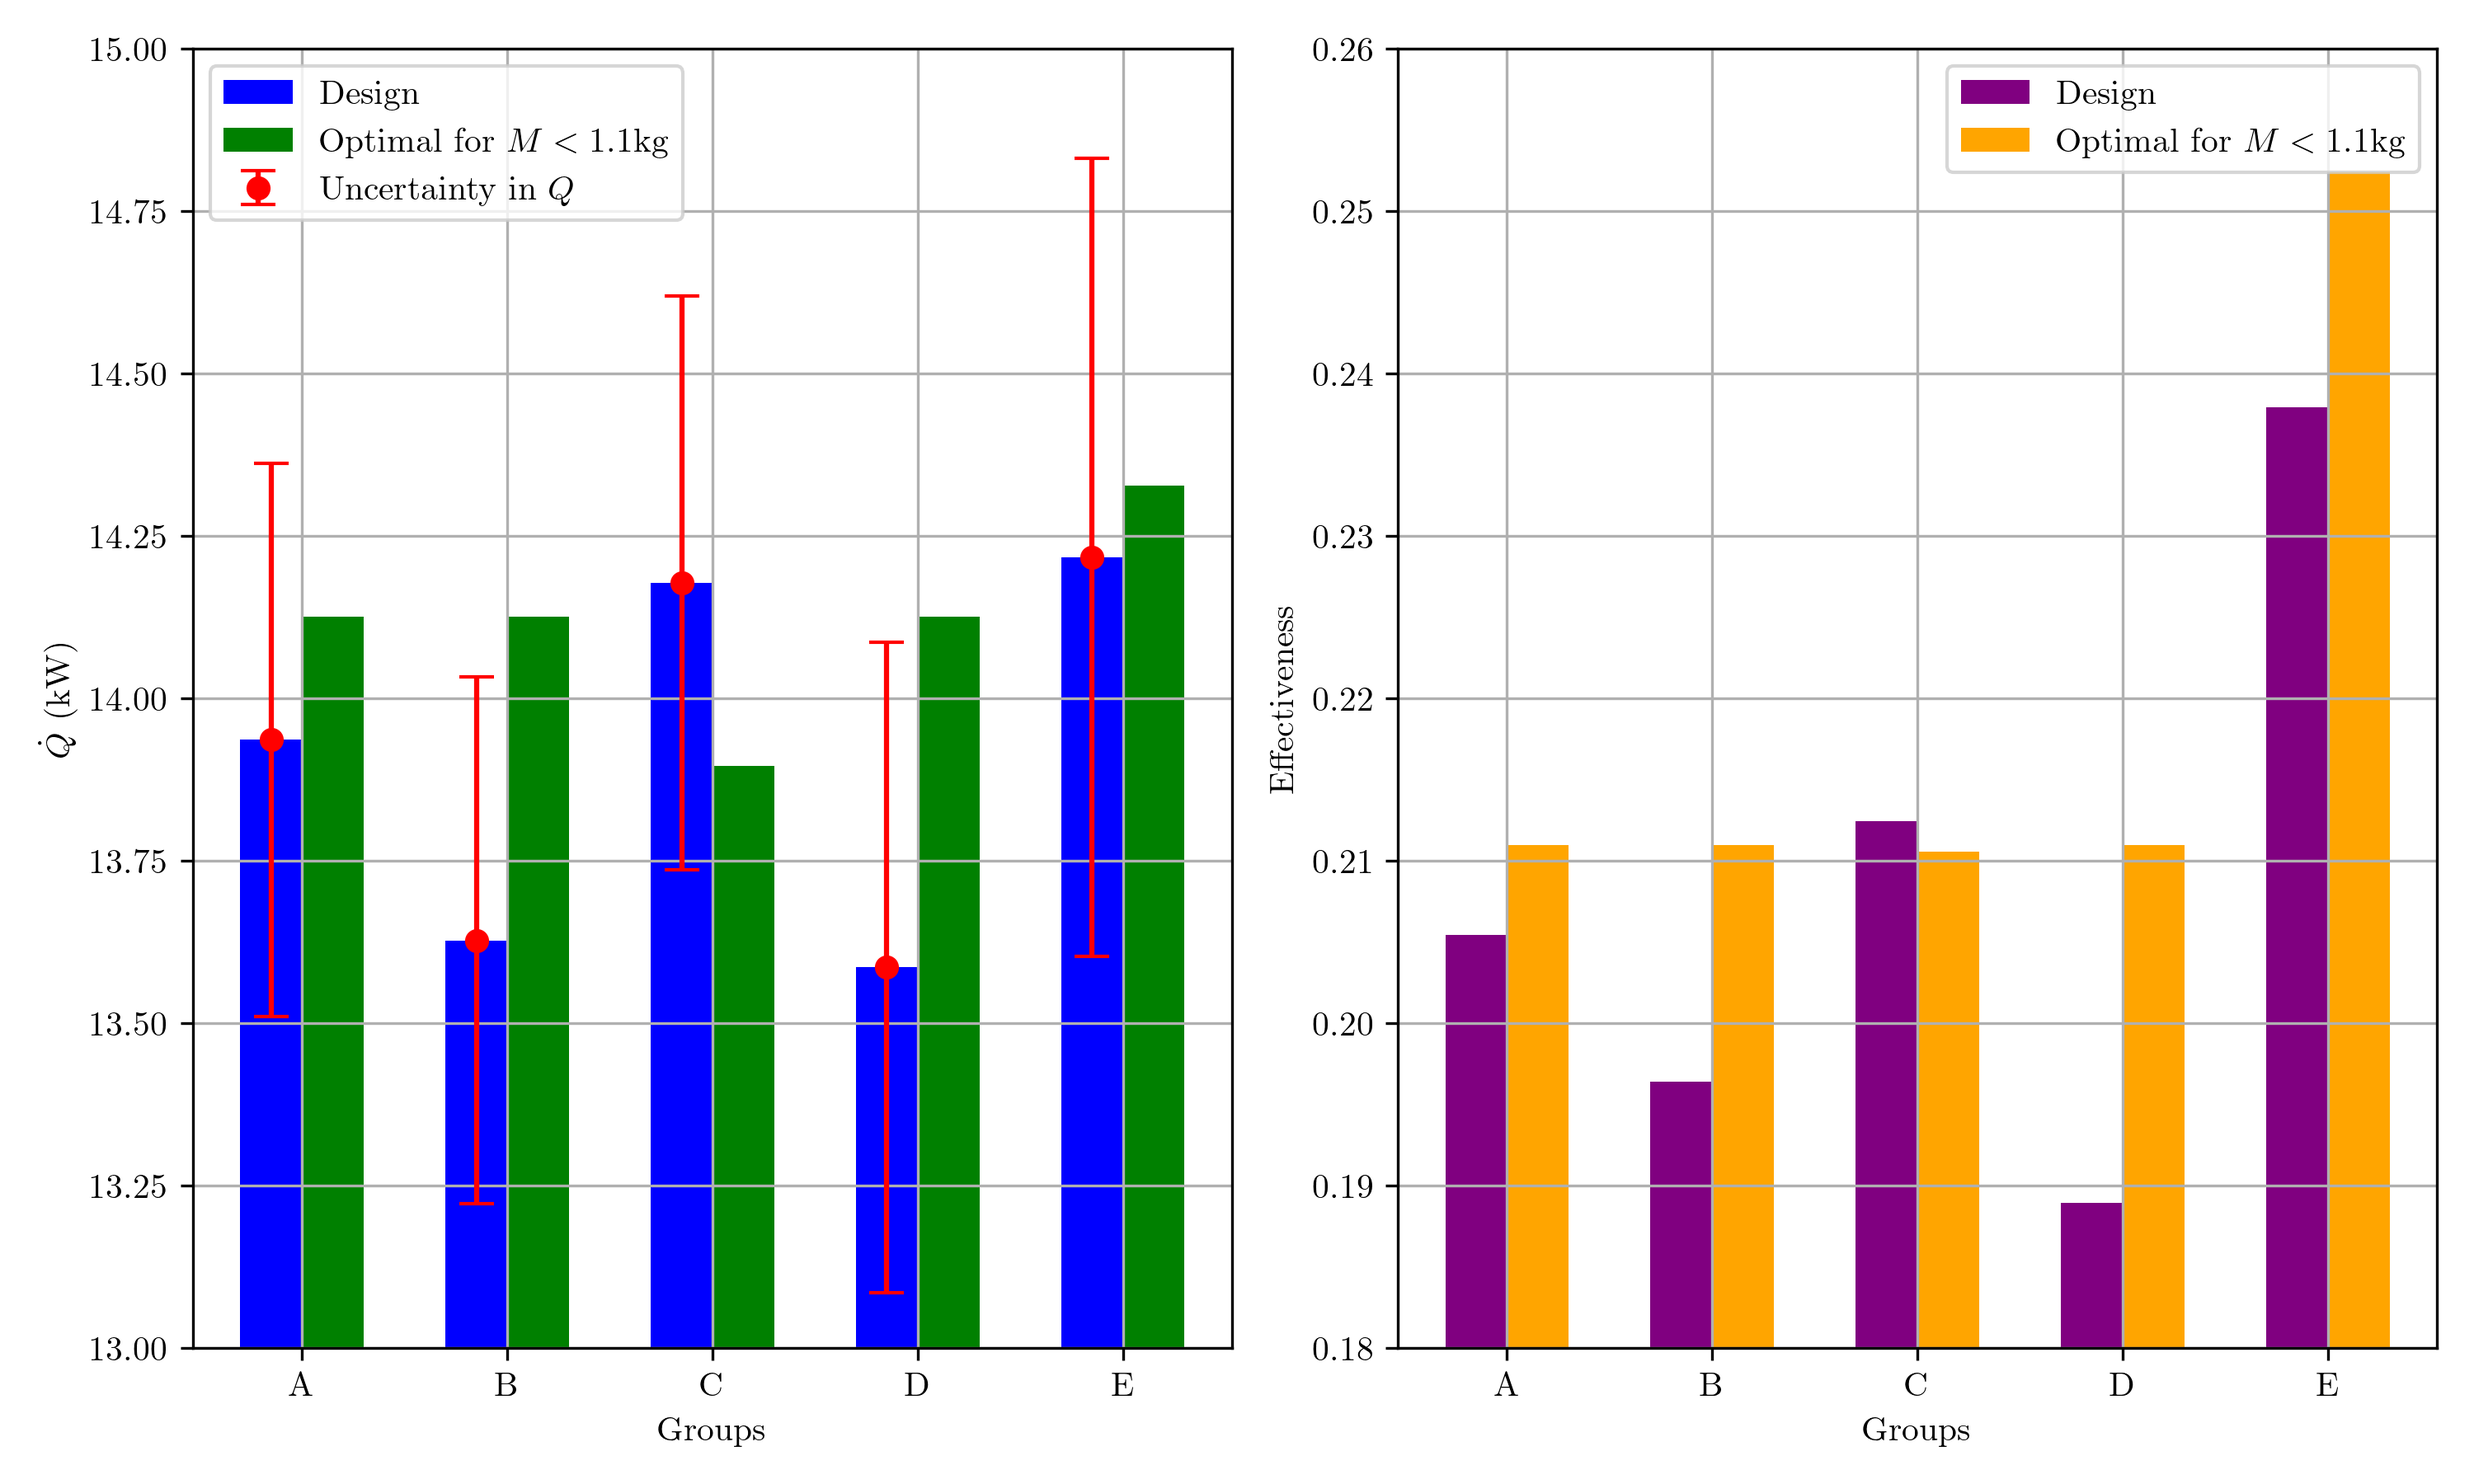
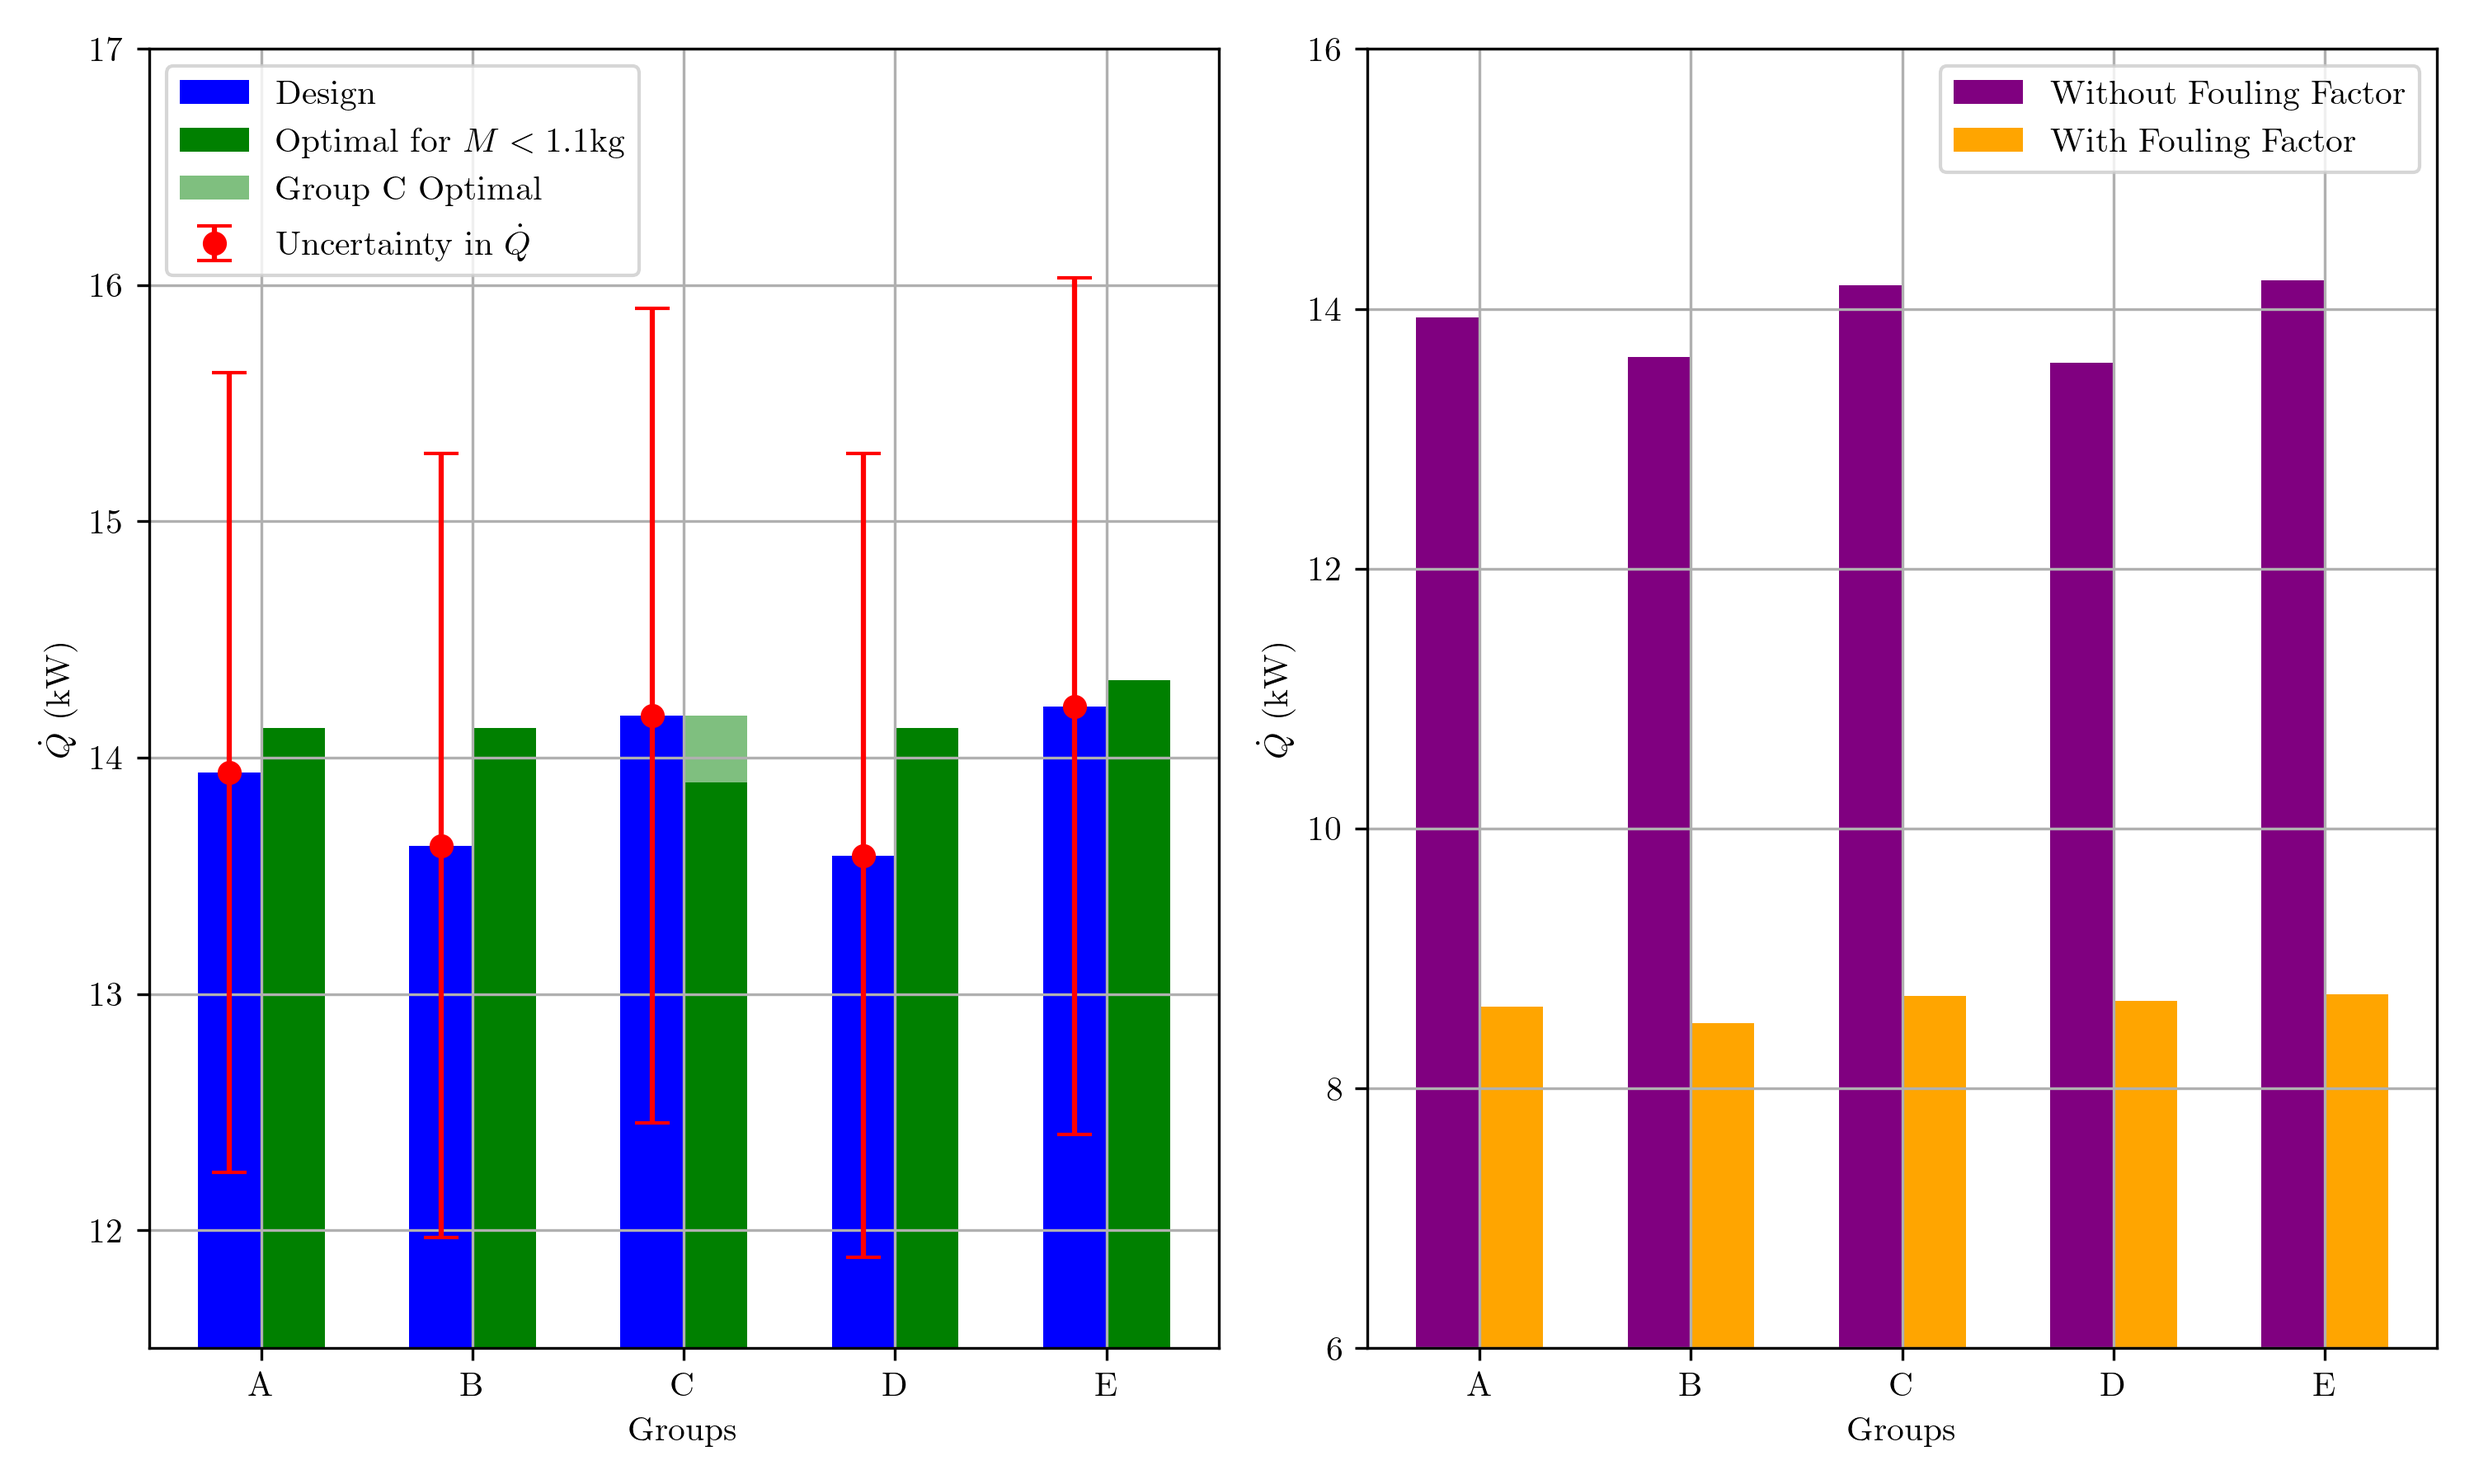
progress very nearly done

diff --git a/IIA/shell_tube_heat_exchanger_reports/performance/performance.tex b/IIA/shell_tube_heat_exchanger_reports/performance/performance.tex
@@ -69,15 +69,13 @@
 \section{Uncertainty Analysis}
 
 \begin{equation}
-    \dot{Q} = f(L_\text{tube}, Y, B, T_{1in}, T_{2in}) = f(x_1, x_2, \ldots, x_N)
+    \dot{Q} = f(L_\text{tube}, Y, B, T_{1in}, T_{2in}) = f(x_1, \; \dots \; x_i \; \dots \; , x_N)
 \end{equation}
 
-The relative uncertainty of $\dot{Q}$ due to variable $i$ is found numerically by a central difference method:
-
+The relative uncertainty of $\dot{Q}$ due to absolute uncertainty $\delta x_i$ is found numerically by a central difference method:
 \begin{equation}
-    u_i(\dot{Q}) \approx \frac{ \left| \dot{Q}(x_i + \delta x_i) - \dot{Q}(x_i - \delta x_i) \right|}{2\dot{Q}(x_i)} \label{eq:central_difference}
+    u_i(\dot{Q}) \approx \frac{1}{\dot{Q}}\left|\frac{\partial \dot{Q}}{\partial x_i} \delta x_i \right| \approx \frac{ \left| \dot{Q}(x_i + \delta x_i) - \dot{Q}(x_i - \delta x_i) \right|}{2\dot{Q}(x_i)} \label{eq:central_difference} \quad \text{and} \quad u_\text{unc}(\dot{Q}) = \sqrt{\sum_{i=1}^N u_i(\dot{Q})^2}
 \end{equation}
-
 An initial test was performed to determine the sensitivity of $\dot{Q}$ to baffle spacing, pitch and length.
 The absolute uncertainty in baffle spacing, pitch and length is taken to be 1mm.
 This represents a high relative uncertainty in the pitch due to the empirical method used in the software.
@@ -104,16 +102,15 @@ The absolute uncertainty in the pitch is then taken to be the maximum difference
 \end{minipage}
 \begin{minipage}[t]{0.69\textwidth}
     \centering
-    \begin{tabular}{|c|c|c|}
-        \hline
-        Design & Calculated Pitch (mm) & True Average Pitch (mm) \\
+    \begin{tabular}{c|c|c}
+        Design & Calculated Pitch & True Average Pitch \\
+        & (mm) & (mm) \\
         \hline
         A & 16.33 & 12.00 \\
         B & 16.33 & 15.41 \\
         C & 16.33 & 14.67 \\
         D & 15.21 & 12.00 \\
         E & 14.49 & 15.13 \\
-        \hline
     \end{tabular}
     \captionof{table}{Pitch Comparison}
     \label{tab:pitch_comparison}
@@ -128,19 +125,17 @@ These values are shown for each design in the table \ref{tab:uncorrected_uncerta
 
 \begin{table}[h!]
     \centering
-    \begin{tabular}{c|cccccc}
+    \begin{tabular}{c|ccccc|c}
+        Group & $u_Y(\dot{Q})$ & $u_L(\dot{Q})$ & $u_{T_\text{1in}}(\dot{Q})$ & $u_{T_\text{2in}}(\dot{Q})$ & $u_\text{unc}(\dot{Q})$ & $u_\text{cor}(\dot{Q})$\\
+         & (\%) & (\%) & (\%) & (\%) & (\%) & (\%) \\
         \hline
-        Group & $u_Y(\dot{Q})$ & $u_L(\dot{Q})$ & $u_{T_\text{1in}}(\dot{Q})$ & $u_{T_\text{2in}}(\dot{Q})$ & $u_\text{unc}(\dot{Q})$ \\
-         & (\%) & (\%) & (\%) & (\%) & (\%) \\
-        \hline
-        A & 2.38 & 0.119 & 1.35 & 1.35 & 3.06 \\
-        B & 2.31 & 0.127 & 1.32 & 1.32 & 2.97 \\
-        C & 2.44 & 0.117 & 1.37 & 1.37 & 3.11 \\
-        D & 3.17 & 0.132 & 1.32 & 1.32 & 3.68 \\
-        E & 3.86 & 0.137 & 1.37 & 1.37 & 4.32 \\
-        \hline
+        A & 2.38 & 0.119 & 1.35 & 1.35 & 3.06 & 12.14 \\
+        B & 2.31 & 0.127 & 1.32 & 1.32 & 2.97 & 12.18 \\
+        C & 2.44 & 0.117 & 1.37 & 1.37 & 3.11 & 12.15 \\
+        D & 3.17 & 0.132 & 1.32 & 1.32 & 3.68 & 12.54 \\
+        E & 3.86 & 0.137 & 1.37 & 1.37 & 4.32 & 12.75 \\
     \end{tabular}
-    \caption{Relative uncertainty components of each groups design to each variable, and the uncertainty in uncorrected $\dot{Q}$ due to all variables.}
+    \caption{Relative uncertainty components of uncorrected $\dot{Q}$ for each group, and the overall uncertainty in uncorrected and corrected (\ref{fig:uncertainty_regions}) $\dot{Q}$ due to all variables.}
     \label{tab:uncorrected_uncertainty}
 \end{table}
 
@@ -155,12 +150,19 @@ This is displayed with the uncorrected uncertainty below in figure \ref{fig:unce
     \label{fig:uncertainty_regions}
 \end{figure}
 
+This shows a significant uncertainty in the corrected $\dot{Q}$ value for all designs. Comparisons between designs are difficult due to the large uncertainty in the corrected $\dot{Q}$ value.
+The uncertainty in our, group E, design is slightly higher than other groups due to our high tube count and high relative uncertainty in pitch.
+The impact this has on $\dot{Q}$ can be seen in the table \ref{tab:uncorrected_uncertainty}.
+
+
 \section{Performance Degradation}
 
-Fouling is a common issue in heat exchangers, leading to a reduction in heat transfer.
+Fouling is a common issue in heat exchangers, leading to a reduction in heat transfer coefficient and reduction in tube areas.
 This can be due to a variety of mechanisms depending on the fluid, geometry and operating conditions.
-For feedwater heaters the most common fouling mechanisms are
+For feedwater heaters the most common fouling mechanisms are deposition of iron oxides and inorganic salts \cite{HeatTransfer}.
 This is often modelled by an empirical fouling factor, which acts as additional thermal resistance \cite{HeatTransfer}.
+For shell and tube heat exchangers, this fouling factor has been found to increase over time \cite{fouling}.
+We will only consider a constant fouling factor of $R_f = 0.00174$.
 
 \subsection{Performance Comparison}
 
@@ -171,6 +173,16 @@ This is often modelled by an empirical fouling factor, which acts as additional 
     \caption{2024 Performance Comparison}
     \label{fig:2024_performance}
 \end{figure}
+
+The performance of the 2024 designs is shown in figure \ref{fig:2024_performance}.
+With little confidence, our software predicts that our design will perform the best out of all groups.
+It can also be seen that despite small manufacturing modifications made to our design, it is still close to the optimal found.
+Group C's design was predicted to come 2nd with a heat transfer 0.28\% below our design.
+Their design was calculated to be much heavier at 1.145 kg, which does not accurately include the weight of the manifold.
+A seperate optimisation was performed with a relaxed mass constraint, which agreed that group C's design was the closest to optimal.
+In third place was group A, with a heat transfer 1.97\% below our design. This was 1.34 \% below predicted optimal for their configuration.
+Groups B and D were predicted at 4th and 5th place respectively, with heat transfers 4.15\% and 4.44\% below our design.
+These were also 3.53\% and 3.82\% below predicted optimal for their configurations.
 
 \begin{thebibliography}{9}
 
